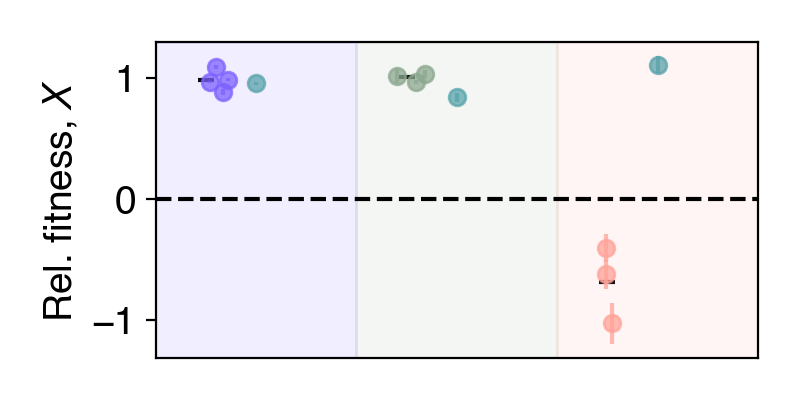
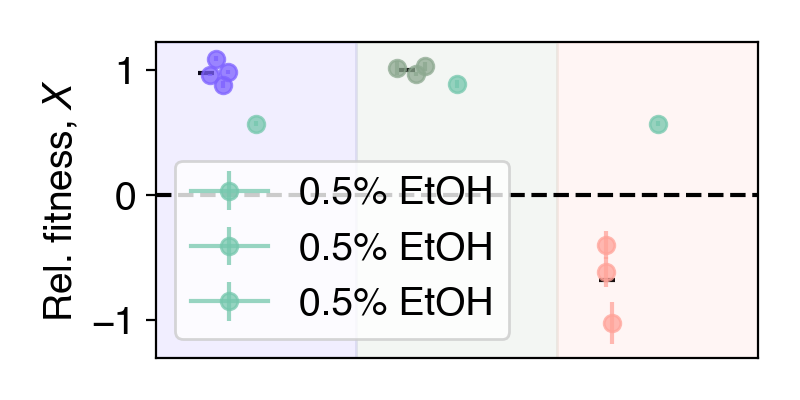
figure3 work

diff --git a/fig3.py b/fig3.py
@@ -466,13 +466,13 @@ salt_errors= fitness_df.loc[barcode,['Batch1_Salt_30_stderror', 'Batch2_Salt_1.5
 np.random.seed(0)
 
 x_ticks = [1,3,5]
-conds_to_plot=[fitness_df.loc[barcode,'Batch4_1Day_0.5%EtOH_fitness'], fitness_df.loc[barcode,'Batch4_2Day_0.5%EtOH_fitness'], fitness_df.loc[barcode,'Batch4_1Day_0.5%EtOH_fitness']]
-errs_to_plot=[fitness_df.loc[barcode,'Batch4_1Day_0.5%EtOH_stderror'], fitness_df.loc[barcode,'Batch4_2Day_0.5%EtOH_stderror'], fitness_df.loc[barcode,'Batch4_1Day_0.5%EtOH_stderror']]
+conds_to_plot_eth=[fitness_df.loc[barcode,'Batch4_1Day_0.5%EtOH_fitness'], fitness_df.loc[barcode,'Batch4_2Day_0.5%EtOH_fitness'], fitness_df.loc[barcode,'Batch4_1Day_0.5%EtOH_fitness']]
+errs_to_plot_eth=[fitness_df.loc[barcode,'Batch4_1Day_0.5%EtOH_stderror'], fitness_df.loc[barcode,'Batch4_2Day_0.5%EtOH_stderror'], fitness_df.loc[barcode,'Batch4_1Day_0.5%EtOH_stderror']]
 etoh_color = (0.46,0.78,0.68)
 
-# conds_to_plot=[fitness_df.loc[barcode,'Batch3_1Day_NS_fitness'], fitness_df.loc[barcode,'Batch3_2Day_NS_fitness'], fitness_df.loc[barcode,'Batch3_Salt_NS_fitness']]
-# errs_to_plot=[fitness_df.loc[barcode,'Batch3_1Day_NS_stderror'], fitness_df.loc[barcode,'Batch3_2Day_NS_stderror'], fitness_df.loc[barcode,'Batch3_Salt_NS_stderror']]
-# ns_color = (0.35,0.64,0.67)
+conds_to_plot_ns=[fitness_df.loc[barcode,'Batch3_1Day_NS_fitness'], fitness_df.loc[barcode,'Batch3_2Day_NS_fitness'], fitness_df.loc[barcode,'Batch3_Salt_NS_fitness']]
+errs_to_plot_ns=[fitness_df.loc[barcode,'Batch3_1Day_NS_stderror'], fitness_df.loc[barcode,'Batch3_2Day_NS_stderror'], fitness_df.loc[barcode,'Batch3_Salt_NS_stderror']]
+ns_color = (0.35,0.64,0.67)
 
 plt.figure(figsize=(4,2))
 colors_bases = [env_color_dict['1Day'], env_color_dict['2Day'], env_color_dict['Salt']]
@@ -480,7 +480,9 @@ for i, (base, err) in enumerate([(one_day_bases, one_day_errors), (two_day_bases
     for (cond,err) in zip(base.values, err.values):
         plt.errorbar(x_ticks[i]+np.random.normal(0,0.1,1)[0], cond, yerr = err, marker = 'o',color = colors_bases[i],  alpha = 0.75)
     plt.scatter(x_ticks[i], np.mean(np.array(base.values)), marker = '_', color ='k')
-    plt.errorbar(x_ticks[i]+.5,conds_to_plot[i], yerr=errs_to_plot[i],marker = 'o',color = etoh_color,  alpha = 0.75 )
+    plt.errorbar(x_ticks[i]+.5,conds_to_plot_eth[i], yerr=errs_to_plot_eth[i],marker = 'o',color = etoh_color,  alpha = 0.75)
+    # plt.errorbar(x_ticks[i]+.6,conds_to_plot_ns[i], yerr=errs_to_plot_ns[i],marker = 'o',color = ns_color,  alpha = 0.75 )
+
 plt.axhline(0, color = 'k', linestyle='--')
 plt.xticks([])
 plt.xlim(0.5,6.5)
